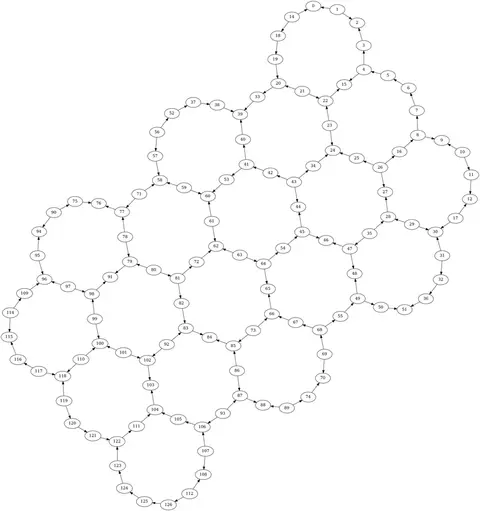
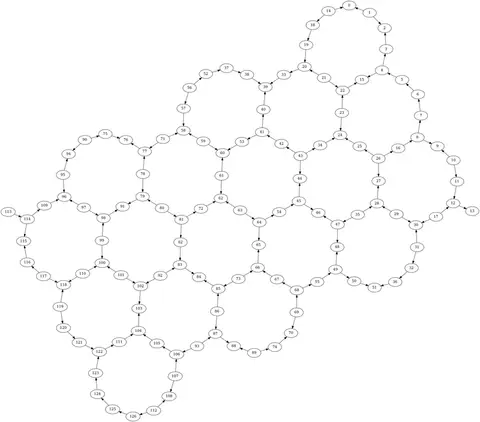
Deploying to gh-pages from @ soon-teh/soon-teh.github.io@0084a77373eb2758103ace6fc61bf43229d2f243 🚀

diff --git a/blog/2023/quantum-challenge-spring-ghz/index.html b/blog/2023/quantum-challenge-spring-ghz/index.html
@@ -207,9 +207,8 @@
 
 <p>The implementation of these unidirectional ECR gates resulted in an interesting CNOT gate transpilation. Since CNOT gate is not a symmetric gate, the transpilation depends on the direction of the CNOT gate. Some transformation identities for assymetric gates are defined in <a href="https://qiskit.org/documentation/stubs/qiskit.transpiler.passes.GateDirection.html" rel="external nofollow noopener" target="_blank">GateDirection</a>.  Meanwhile, CNOT gate is transpiled into ECR and single qubit gate up to a global phase shift.</p>
 
-<p><img src="2023-06-02-12-10-32.png" alt="">
-<img class="img-fluid mx-auto mb-4" src="/assets/img/2023-05-30/cnot-transpile1.png">
-<img class="img-fluid mx-auto mb-4" src="/assets/img/2023-05-30/cnot-transpile2.png"><br></p>
+<p><img class="img-fluid mx-auto mb-4" src="/assets/img/2023-05-30/cnot-transpile1.png">
+<img class="img-fluid mx-auto mb-4" src="/assets/img/2023-05-30/cnot-transpile2.png"></p>
 
 <p>For instance, the unidirectional ECR gate between the qubit $q_{63}$ and $q_{64}$ is implemented in the forward direction from $q_{63}$ to $q_{64}$. The CNOT gate transpilation with control at $q_{63}$ and target at $q_{64}$ resulted in only a depth 5 circuit while depth 7 when reversed.</p>
 
@@ -221,12 +220,21 @@
 <p>where $n$ is the number of qubits. One of the intriguing properties of the GHZ state is that it exhibits perfect correlations. That is, the measurement of one qubit resulted in the same outcome for all other qubits, which is a direct consequence of quantum entanglement.</p>
 
 <h2 id="generating-a-large-ghz-state">Generating a Large GHZ State</h2>
-<p>In the final lab of IBM Quantum Spring</p>
+<p>In the final lab of IBM Quantum Spring Challenge 2023, participants were tasked to generate a 54-qubit GHZ state on the 127-qubit real device. Only the even-numbered qubits are used for the GHZ state while the odd-numbered qubits as the stabilzers.</p>
+
+<p><img class="img-fluid mx-auto mb-4" src="/assets/img/2023-05-30/odd-even-qubits.png"></p>
+
+<p>The oddness and evenness of the numbers are not to be confused (from the image, red: GHZ qubits; green: stabilizer qubits; and black: unused) with the indexing of the qubit. An unranked optional challenge to generate the GHZ state with the lowest depth can be attempted by motivated participants. Two approaches will be discussed in this post, one with $log(N)$ depth and the other with constant depth.</p>
 
 <h3 id="breadth-first-search">Breadth-First Search</h3>
 
 <h3 id="dynamic-circuit">Dynamic Circuit</h3>
 <p>In conjunction with this year’s challenge theme on dynamic circuits, an optimal solution with constant scaling can be constructed with dynamic circuits regardless of the device size and configuration.</p>
+
+<h3 id="gate-error-rate">Gate Error Rate</h3>
+<p>For superconducting qubits, not all qubits are created equal. The qubits vary in quality due to fabrication and calibration errors.</p>
+
+<p><img class="img-fluid mx-auto mb-4" src="/assets/img/2023-05-30/error-map.png"><br></p>
 
 <h2 id="final-remarks">Final Remarks</h2>
 <p>The IBM Quantum Spring Challenge 2023 is an excellent opportunity for the community, beginners and professionals alike to learn about the latest development in quantum computing. Dynamic circuits being one of the new tools introduced in recent years, it would be exciting to see how they can advance the field of quantum computation. The implementation of the algorithms discussed for the generation of large GHZ state is available <a href="">here</a>.</p>

diff --git a/blog/index.html b/blog/index.html
@@ -129,6 +129,11 @@
   <div class="tag-list">
     <ul class="p-0 m-0">
       
+        <li>
+          <i class="fas fa-hashtag fa-sm"></i> <a href="/blog/tag/qiskit">qiskit</a>
+        </li>
+        
+      
     </ul>
   </div>
   
@@ -148,7 +153,7 @@
       </h3>
       <p>A look into the final lab of IBM Quantum Spring Challenge 2023</p>
       <p class="post-meta">
-        4 min read &nbsp; &middot; &nbsp;
+        5 min read &nbsp; &middot; &nbsp;
         May 30, 2023
       </p>
       <p class="post-tags">
